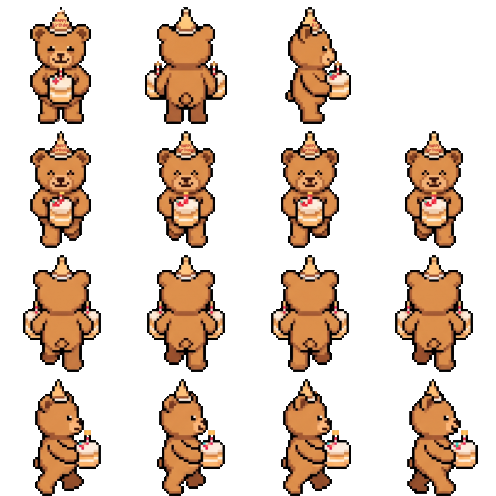
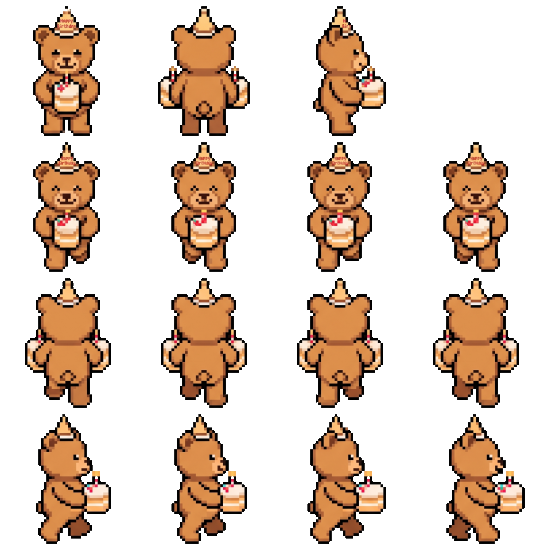
Octobre : la mouette entre dans le jeu, et Cakey grandit
Seize poses à une seule et même échelle : ailes fermées elle est plus
petite que Bob, ailes ouvertes elle fait presque deux fois sa hauteur
en largeur. Tout le personnage tient dans cet écart, donc aucune pose
n'est redimensionnée séparément.

Sa planche arrivait en cases non carrées, que planche_hd.ps1 ne sait
pas découper : carrer_planche.ps1 la remet au carré sans rien
déformer. Les deux touffes d'herbe dessinées au sol sont effacées à
la couleur — elle n'a pas un pixel vert sur elle.

Cakey passe à 1.45 dans la planche aussi, pour rester d'accord avec
personnages.js.

diff --git a/10/js/moteur.js b/10/js/moteur.js
@@ -193,6 +193,61 @@ TENUES.forEach(function (tenue) {
     loadSprite("portrait_" + tenue, "assets/peluches/portraits/" + tenue + ".png");
 });
 
+/* ------------------------------------------------------------
+   LA MOUETTE (acte III bis / acte IV)
+   ------------------------------------------------------------
+   Le seul personnage du jeu qui n'est pas une peluche : des
+   plumes, pas de coutures, et un œil qui ne cligne pas. Sa
+   planche ne suit donc pas le gabarit des peluches — elle a ses
+   propres poses, et surtout TOUTES SES CASES SONT À LA MÊME
+   ÉCHELLE : ailes fermées elle est plus petite que Bob, ailes
+   ouvertes elle fait presque deux fois sa hauteur en largeur.
+   C'est tout le personnage qui tient dans cet écart, donc on ne
+   redimensionne jamais une pose séparément.
+
+   ⚠ Elle regarde à DROITE sur toute la planche (sauf le cri, de
+   trois quarts face) : c'est flipX qui la tourne vers la gauche.
+
+   Refaite par outils/refaire_peluches.ps1, qui passe d'abord sa
+   planche par carrer_planche.ps1 (elle arrive en 2816 x 1536).
+   ------------------------------------------------------------ */
+const ANIMS_MOUETTE = {
+    "posee": 0,        // debout, ailes fermées
+    "jacasse": 1,      // debout, bec ouvert vers le ciel
+    "picore": 2,       // penchée, bec au sol, l'air de rien
+    "sonnee": 3,       // bec coincé, ailes en désordre
+
+    "marche": { from: 4, to: 7, loop: true, speed: 7 },
+    "vol": { from: 8, to: 11, loop: true, speed: 9 },
+
+    "pique": 12,       // ailes repliées en V, en diagonale
+    "cri": 13,         // trois quarts face, ailes grandes ouvertes
+    "coup_aile": 14,   // une aile qui balaie
+    "emporte": 15,     // en vol, quelque chose de mou dans le bec
+};
+
+loadSprite("mouette", "assets/peluches/mouette_anim.png", {
+    sliceX: 4,
+    sliceY: 4,
+    anims: ANIMS_MOUETTE,
+});
+
+/* Sa taille à l'écran, et il faut la calculer, pas la deviner.
+
+   Bob est dessiné dans une case de 116 px où il n'occupe que 90 px.
+   À l'acte III sa case fait 56 px (CORDE.hauteurBob), donc sa VRAIE
+   hauteur à l'écran est 56 x 90/116 ≈ 43 px.
+
+   La mouette fait 60 cm contre ses 70 : 43 x 60/70 ≈ 37 px. Et elle
+   occupe 77 px dans une case de 176.
+
+   D'où : debout, ailes fermées, ELLE EST PLUS PETITE QUE LUI — et
+   c'est exactement ce qui doit surprendre le joueur la première fois
+   qu'elle se pose. Elle n'est terrifiante que quand elle ouvre. */
+const HAUTEUR_MOUETTE = 37;
+const CASE_MOUETTE = Math.round(HAUTEUR_MOUETTE * 176 / 77);
+
+
 const APPARENCES = {};
 
 // La planche (et le portrait) que porte ce personnage en ce moment.

diff --git a/10/HISTOIRE.md b/10/HISTOIRE.md
@@ -282,6 +282,15 @@ et un vrai jeu :
 - ~~Sprites des peluches~~ → **reçus le 17/09** (Rosy, Samsam, Fraisy, Bluey,
   Doudou, Cakey + les icônes d'objets), convertis par `outils/refaire_peluches.ps1`.
   **Samsam sans pyjama** et **la vraie veilleuse** (lampe.png) reçus le 21/09.
+  **La mouette reçue le 24/09** : seize poses (posée, jacasse, picore, sonnée,
+  marche, vol, piqué, cri ailes grandes ouvertes, coup d'aile, elle emporte
+  quelque chose de mou), toutes à la MÊME échelle — ailes fermées elle est plus
+  petite que Bob, ailes ouvertes elle fait presque deux fois sa hauteur en
+  largeur, et tout le personnage tient dans cet écart. Ce n'est pas une
+  peluche : des plumes, pas une couture, et elle ne sourit jamais.
+  Sa planche arrivait en 2816 x 1536, donc en cases NON carrées, ce que
+  `planche_hd.ps1` ne sait pas découper : `outils/carrer_planche.ps1` la remet
+  au carré sans rien déformer, juste avant.
   Manque : **Moin** (il n'existe qu'en texte).
 - La vraie couleur des rideaux de Klara (le rideau tombé est crème pour l'instant).
 - ~~Cakey appâte la mouette avec son gâteau~~ → **NON, décidé par Evan.**
